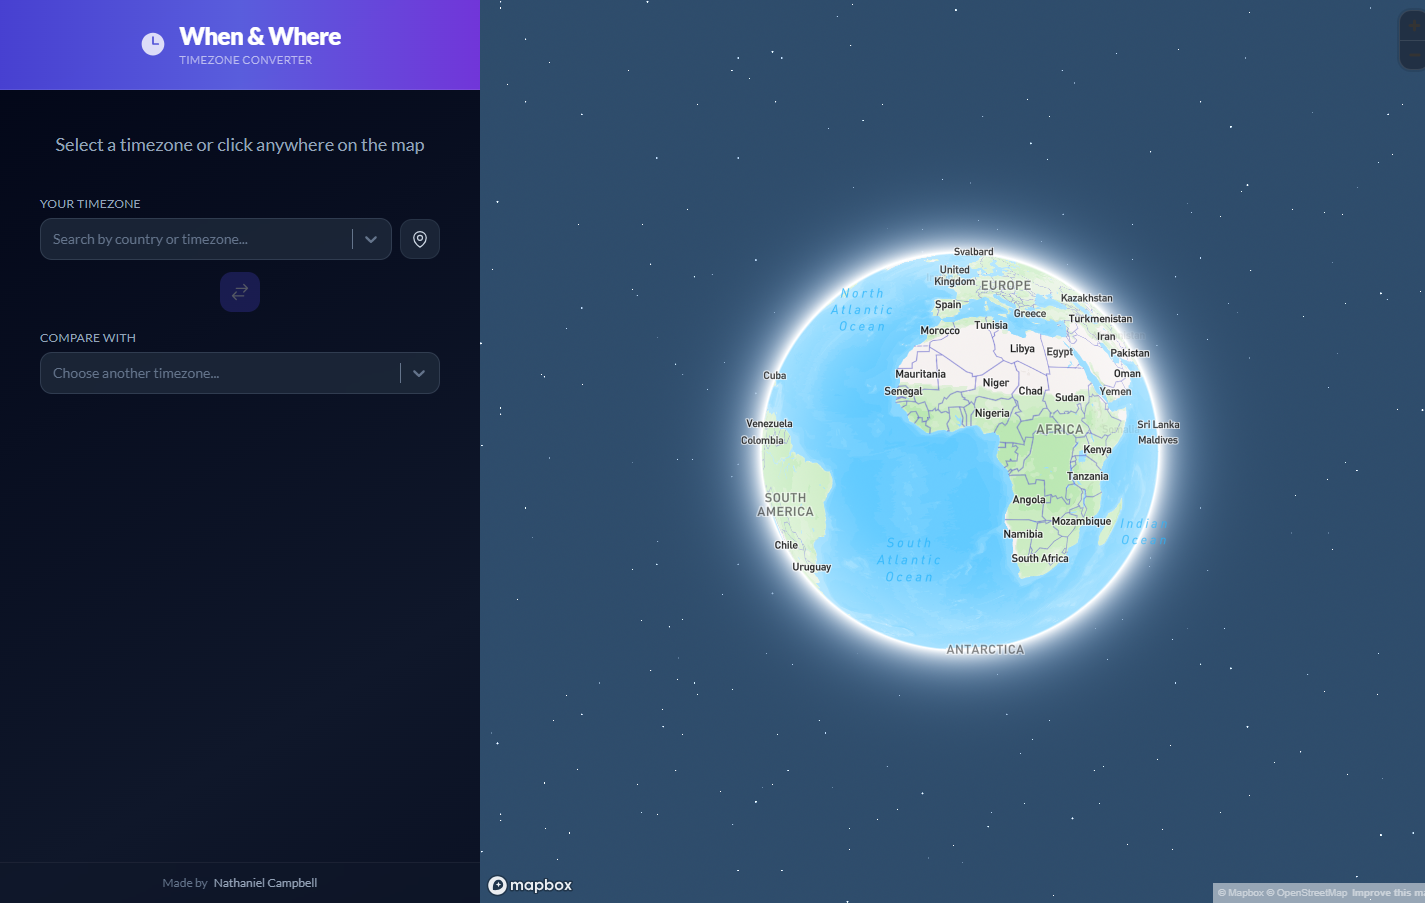
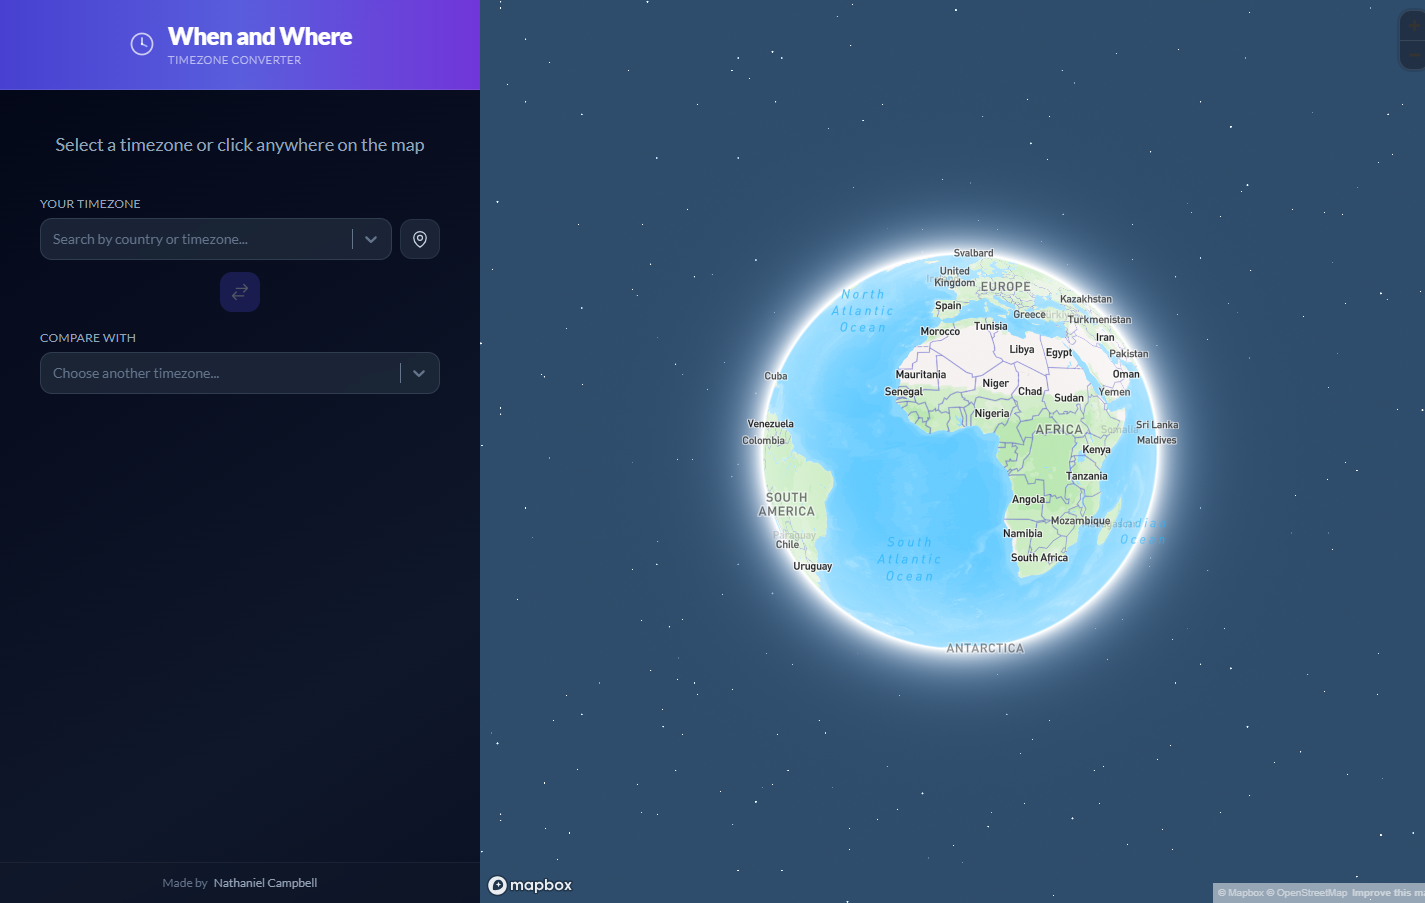
Improve mobile layout: tighter header, smaller map min-height, reduced spacing

diff --git a/src/components/Header.tsx b/src/components/Header.tsx
@@ -1,7 +1,7 @@
 const Header = () => {
 	return (
 		<header className="[grid-area:header] bg-gradient-to-r from-indigo-600/90 via-indigo-500/90 to-violet-600/90 backdrop-blur-sm border-b border-white/10">
-			<div className="flex items-center justify-center gap-3 px-6 py-5">
+			<div className="flex items-center justify-center gap-2 px-4 py-3 sm:gap-3 sm:px-6 sm:py-5">
 				<svg xmlns="http://www.w3.org/2000/svg" viewBox="0 0 24 24" fill="none" className="w-7 h-7" aria-hidden="true">
 					<circle cx="12" cy="12" r="9" stroke="currentColor" strokeWidth="1.5" className="text-white/70" />
 					<line x1="12" y1="12" x2="12" y2="7" stroke="currentColor" strokeWidth="1.5" strokeLinecap="round" className="text-indigo-200" />
@@ -9,7 +9,7 @@ const Header = () => {
 					<circle cx="12" cy="12" r="1" fill="currentColor" className="text-white/80" />
 				</svg>
 				<div>
-					<h1 className="text-xl font-black tracking-tight sm:text-2xl">When and Where</h1>
+					<h1 className="text-lg font-black tracking-tight sm:text-2xl">When and Where</h1>
 					<p className="text-[11px] font-light tracking-wider text-white/60 uppercase">Timezone Converter</p>
 				</div>
 			</div>

diff --git a/src/components/Form.tsx b/src/components/Form.tsx
@@ -122,7 +122,7 @@ export const Form = () => {
 	}
 
 	return (
-		<form className="max-w-3xl mx-auto my-6 mb-10 animate-fade-in" aria-label="Timezone selection">
+		<form className="max-w-3xl mx-auto my-4 mb-8 animate-fade-in sm:my-6 sm:mb-10" aria-label="Timezone selection">
 			<div className="flex flex-col items-center gap-3">
 				<div className="relative flex-1 w-full max-w-md">
 					<label className="inline-block mb-1.5 text-xs font-medium tracking-wide text-slate-400 uppercase" htmlFor="selectedTimezone">

diff --git a/src/components/Map.tsx b/src/components/Map.tsx
@@ -188,7 +188,7 @@ export const Map = () => {
 					</div>
 				</div>
 			) : (
-				<div className="relative w-full h-full min-h-[20rem]">
+				<div className="relative w-full h-full min-h-[16rem] sm:min-h-[20rem]">
 					{isLoading && (
 						<div className="absolute top-3 left-3 z-10 inline-flex items-center gap-2 px-3 py-1.5 text-xs font-medium text-white/90 bg-slate-900/80 backdrop-blur-sm rounded-lg border border-white/10 shadow-lg animate-fade-in" role="status" aria-label="Loading timezone data">
 							<span className="inline-block w-2 h-2 bg-indigo-400 rounded-full animate-pulse-soft" />

diff --git a/src/components/Results.tsx b/src/components/Results.tsx
@@ -7,7 +7,7 @@ export const Results = () => {
 	return (
 		<>
 			{formattedTime && formattedTime2 && (
-				<div className="mt-6 overflow-hidden text-center transition-all duration-500 animate-slide-up bg-slate-800/50 backdrop-blur-xl rounded-2xl border border-white/5" aria-live="polite" aria-atomic="true">
+				<div className="mt-4 overflow-hidden text-center transition-all duration-500 animate-slide-up bg-slate-800/50 backdrop-blur-xl rounded-2xl border border-white/5 sm:mt-6" aria-live="polite" aria-atomic="true">
 					<div className="grid gap-6 px-5 py-6 sm:px-6">
 						<div className="space-y-1.5">
 							<h2 className="text-xs font-medium tracking-wide text-slate-400 uppercase truncate">{currentTimezone && getTimezoneString(currentTimezone)}</h2>